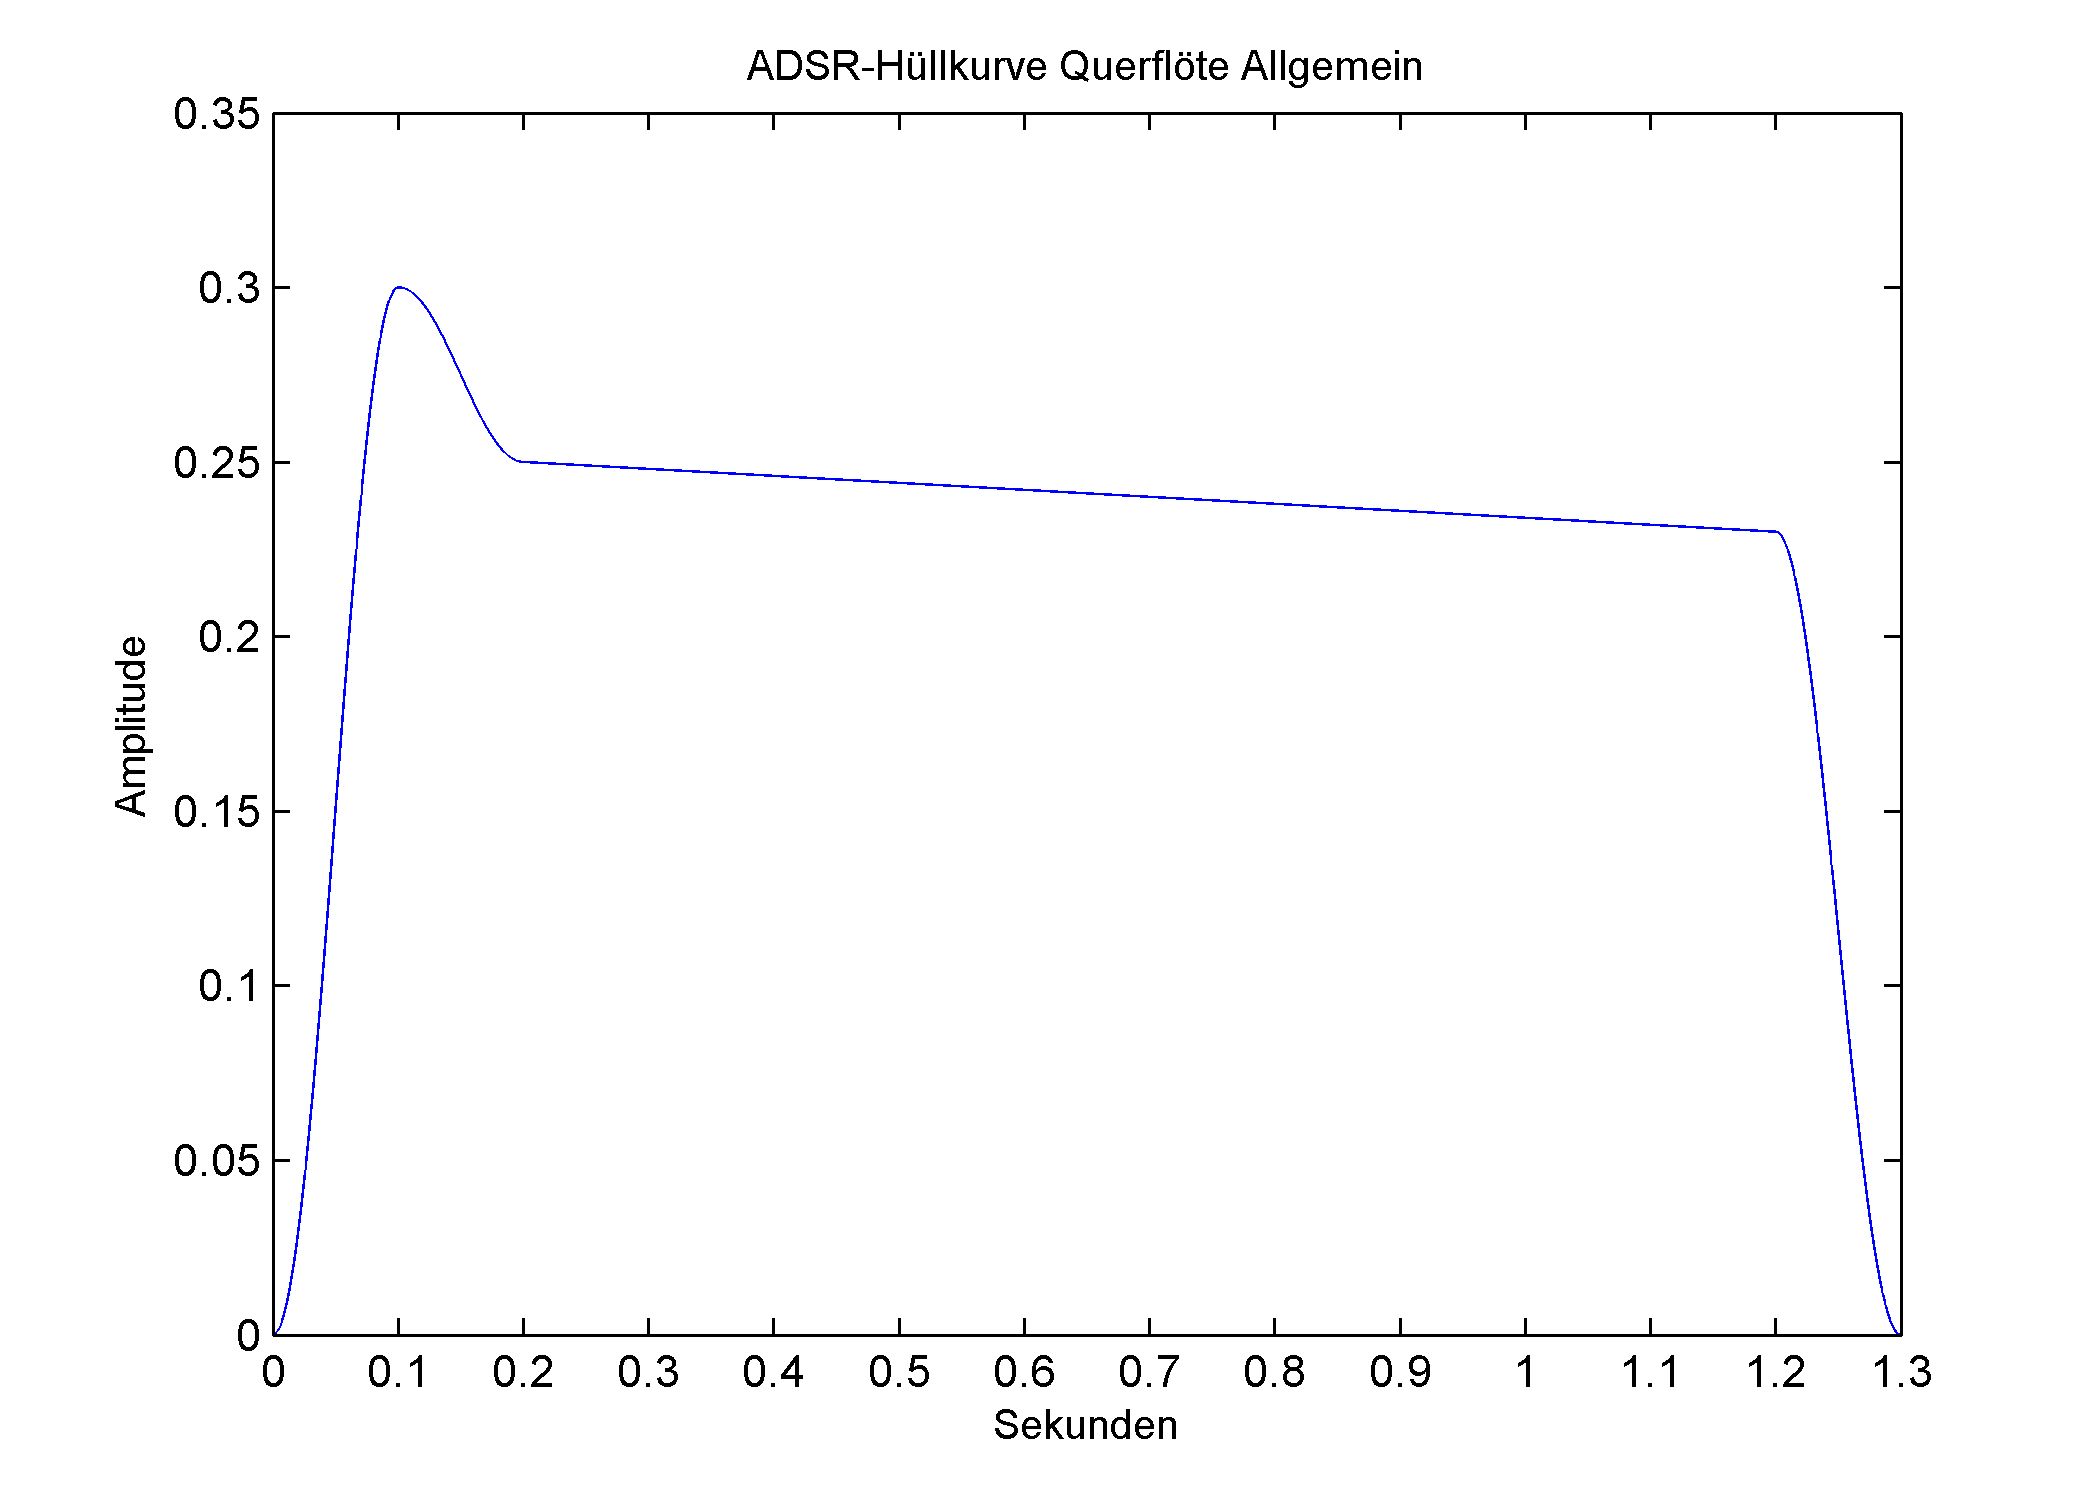
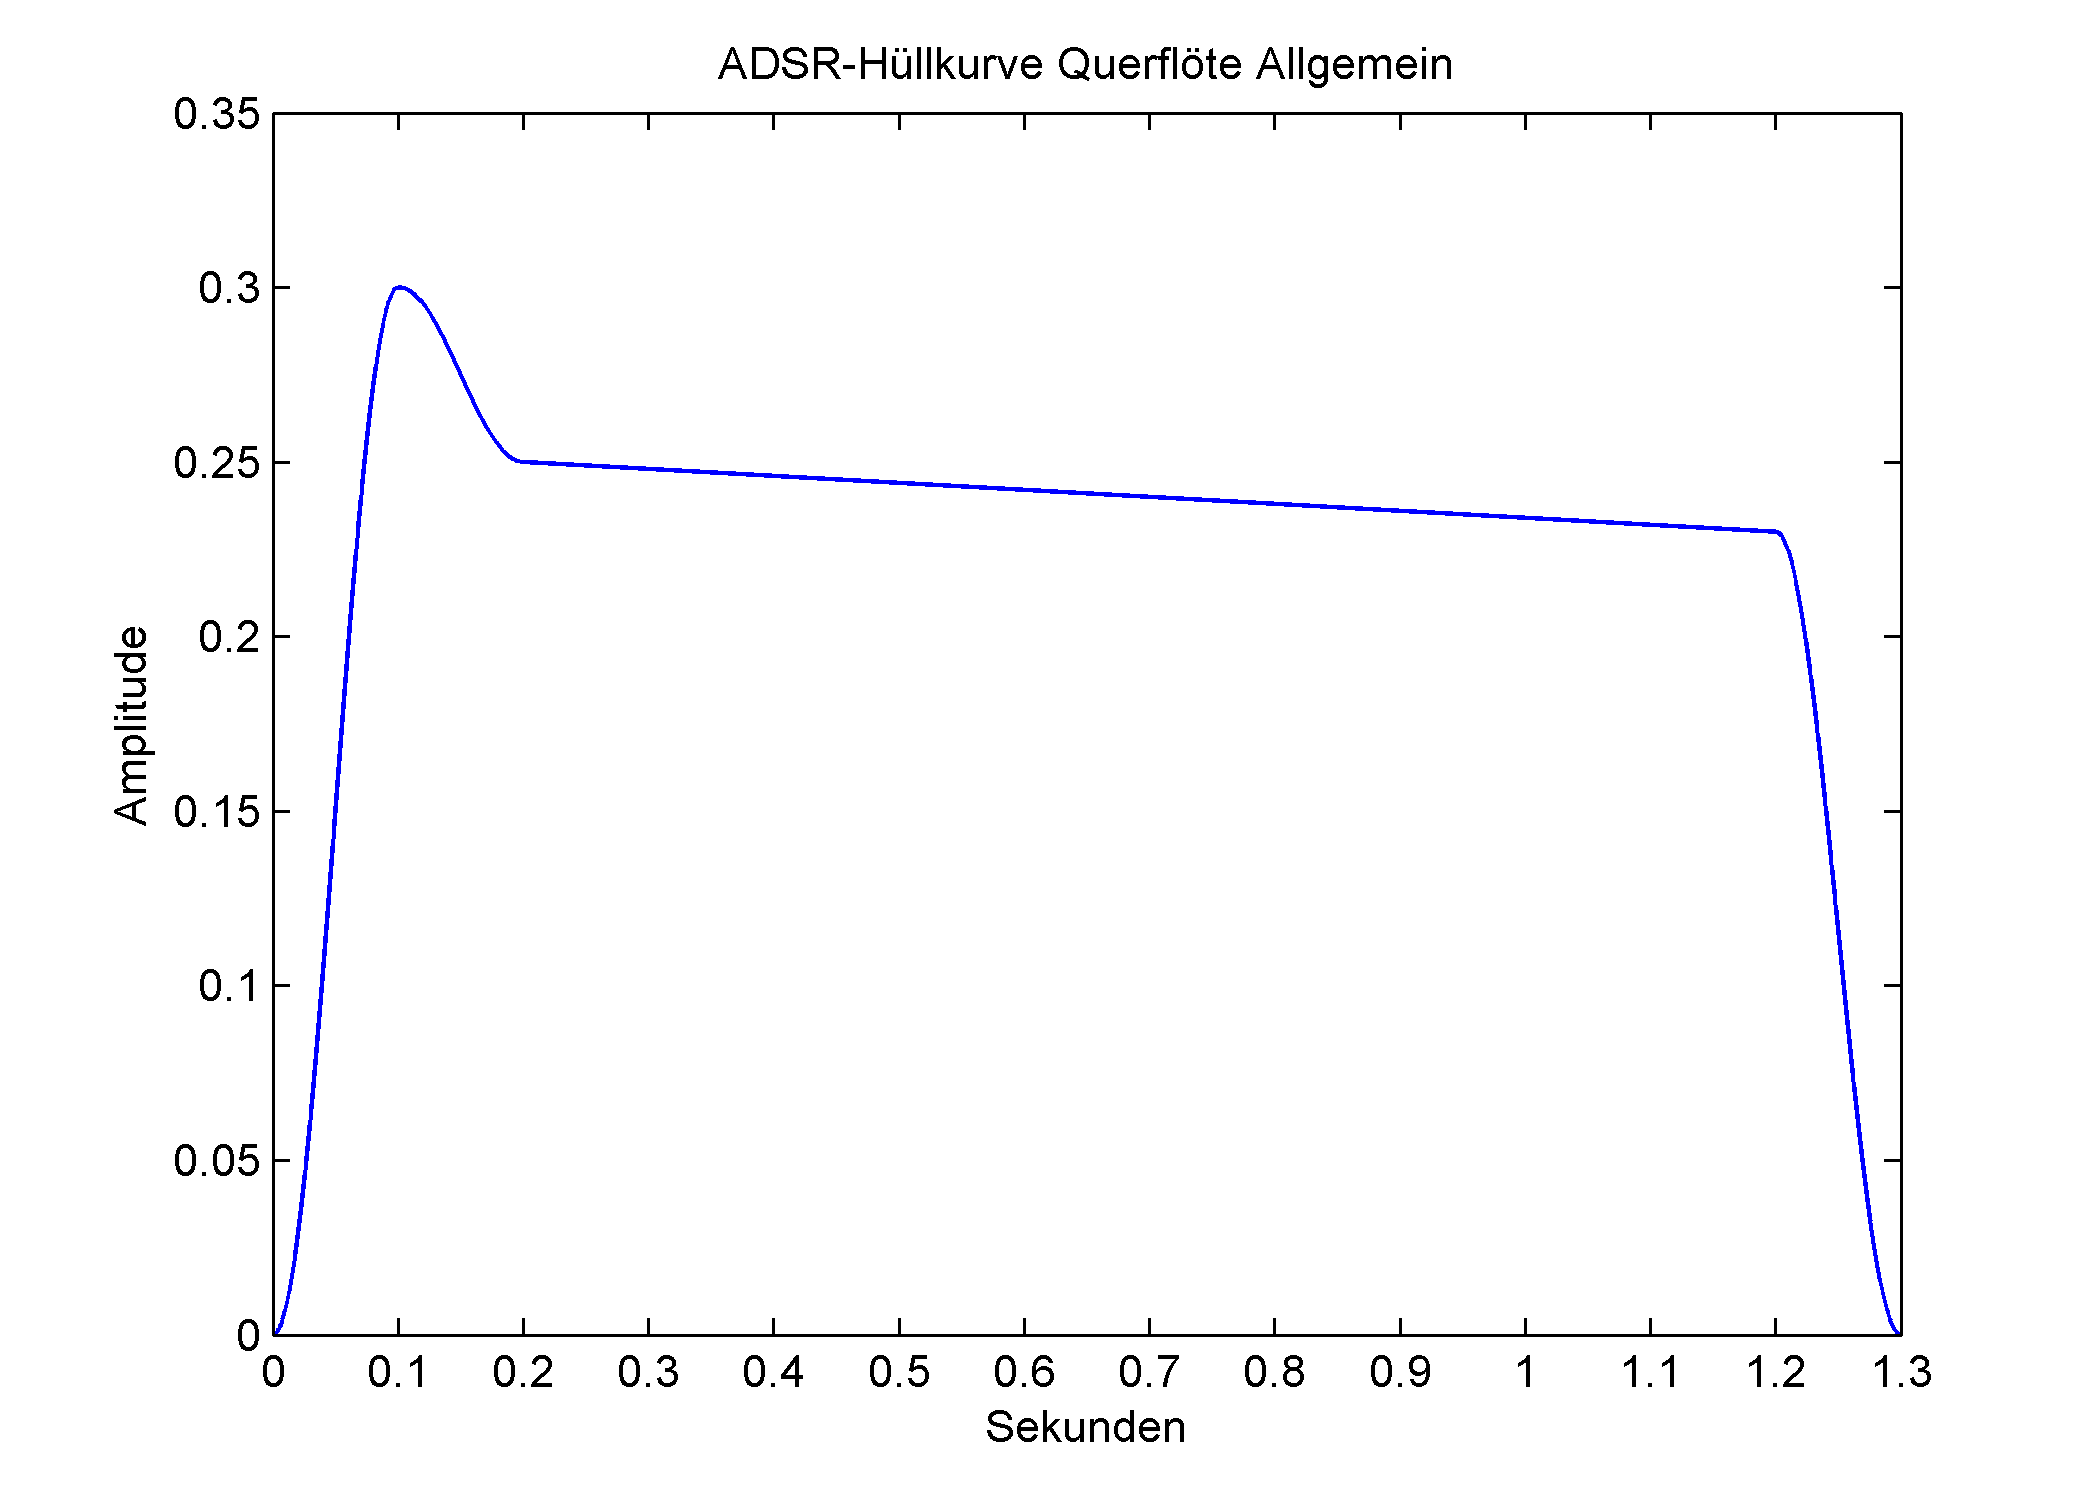
better images more books

diff --git a/Dok/Kapitel/PraktischeAnwendungderFM-Synthese.tex b/Dok/Kapitel/PraktischeAnwendungderFM-Synthese.tex
@@ -7,52 +7,45 @@ Trotzdem gibt es einige Methoden den generierten Klang natürlicher wirken zu la
 \FloatBarrier
 \subsubsection{Theoretisches Vorgehen}
 
-Da bei vielen Instrumenten die Lautstärke während der Laufzeit eines Tones variiert, und ein abruptes Ein oder Ausschalten des Tones nicht realistisch klingt, ist die Nutzung einer ADSR-Hüllkurve ein wichtiger Bestandteil der Nachbildung eines Instrumentes. ADSR steht für die einzelnen Phasen eines Tones: Attack, Decay, Sustain und Release. Diese Phasen sollen hier vereinfacht erklärt werden. Beim Drücken einer Taste wird der Ton angeschlagen und die Lautstärke des Tones steigt schnell bis zu einem maximal Wert an. Diese Phase wird Attack-Phase genannt. Nachdem die maximale Lautstärke erreicht wurde, startet die Decay Phase. In dieser Phase sinkt die Lautstärke schnell auf einen geringeren Wert ab. Danach befindet sich der Ton in der Sustain Phase und die Lautstärke bleibt gleich, solange der Ton gespielt wird. Sobald die Taste losgelassen wird, nimmt die Lautstärke wieder bis zu ihrem minimal Wert ab. In Abbildung \ref{fig:defaultADSR} ist der Verlauf der Lautstärke einer Standard ADSR-Hüllkurve noch einmal grafisch dargestellt.
+Da bei vielen Instrumenten die Lautstärke während der Laufzeit eines Tones variiert, und ein abruptes Ein oder Ausschalten des Tones nicht realistisch klingt, ist die Nutzung einer ADSR-Hüllkurve ein wichtiger Bestandteil der Nachbildung eines Instrumentes. ADSR steht für die einzelnen Phasen eines Tones: Attack, Decay, Sustain und Release. Diese Phasen sollen hier vereinfacht erklärt werden. Beim Drücken einer Taste wird der Ton angeschlagen und die Lautstärke des Tones steigt schnell bis zu einem maximal Wert an. Diese Phase wird Attack-Phase genannt. Nachdem die maximale Lautstärke erreicht wurde, startet die Decay Phase. In dieser Phase sinkt die Lautstärke schnell auf einen geringeren Wert ab. Danach befindet sich der Ton in der Sustain Phase und die Lautstärke bleibt gleich, solange der Ton gespielt wird. Sobald die Taste losgelassen wird, nimmt die Lautstärke wieder bis zu ihrem minimal Wert ab. In Abbildung \ref{fig:adsrDefault} ist der Verlauf der Lautstärke einer Standard ADSR-Hüllkurve noch einmal grafisch dargestellt.
 
 \begin{figure} [ht]
 \centering
-  \includegraphics[width=0.5\textwidth]{standardadsr.png}
+  \includegraphics[width=0.5\textwidth]{adsrDefault.png}
 \caption{Standard ADSR-Hüllkurve}
-\label{fig:defaultADSR}
+\label{fig:adsrDefault}
 Quelle: Eigene Darstellung mit Matlab
 \end{figure}
 
-Da allerdings bei vielen Instrumenten die Lautstärke in den einzelnen Phasen der ADSR-Hüllkurve nicht gleichmäßig steigt oder sinkt, ist es nötig die Kurven beliebig Komplex abbilden zu können. Zum Beispiel steigt bei vielen Instrumenten die Lautstärke in der Attack Phase exponentiell an und fällt in der Decay und Release Phase auch exponentiell ab. Manche Synthesizer bieten zusätzlich auch noch eine Hold Phase vor der Attack Phase, da manche Instrumente einige Zeit benötigen bis sie nach dem Anschlagen des Tones in die Attack Phase eintreten. In Abbildung \ref{fig:blechblasadsr} und \ref{fig:klavieradsr} wurden weitere für Instrumenten typische Hüllkurven dargestellt.
+Da allerdings bei vielen Instrumenten die Lautstärke in den einzelnen Phasen der ADSR-Hüllkurve nicht gleichmäßig steigt oder sinkt, ist es nötig die Kurven beliebig Komplex abbilden zu können. Zum Beispiel steigt bei vielen Instrumenten die Lautstärke in der Attack Phase exponentiell an und fällt in der Decay und Release Phase auch exponentiell ab. Manche Synthesizer bieten zusätzlich auch noch eine Hold Phase vor der Attack Phase, da es Instrumente gibt, die einige Zeit benötigen bis sie nach dem Anschlagen des Tones in die Attack Phase eintreten. In Abbildung \ref{fig:adsrBrass} und \ref{fig:adsrPiano} wurden weitere für Instrumenten typische Hüllkurven dargestellt.
 
 \begin{figure} [ht]
 \centering
-  \includegraphics[width=0.5\textwidth]{blechblasadsr.png}
+  \includegraphics[width=0.5\textwidth]{adsrBrass.png}
 \caption{Typische ADSR-Hüllkurve eines Blechblasinstrumentes}
-\label{fig:blechblasadsr}
-Quelle: Eigene Darstellung mit Matlab
+\label{fig:adsrBrass}
+Quelle: Eigene Darstellung mit Matlab nach \cite{chowningPaper}
 \end{figure}
 
 \begin{figure} [ht]
 \centering
-  \includegraphics[width=0.5\textwidth]{klavieradsr.png}
+  \includegraphics[width=0.5\textwidth]{adsrPiano.png}
 \caption{Typische ADSR-Hüllkurve eines Klaviers}
-\label{fig:klavieradsr}
+\label{fig:adsrPiano}
 Quelle: Eigene Darstellung mit Matlab
 \end{figure}
 
-Auch wenn das Hinzufügen einer ADSR-Hüllkurve den Klang des synthetisierten Tones schon stark verbessert, hört sich der erzeugte Ton leider noch nicht wie ein echtes Instrument an. Eine weitere Möglichkeit den Ton weiter zu verbessern, stellt die Varrierung des Modulationsindex über die Zeit oder die Amplitude dar. Somit kann die Anzahl der Seitenfrequenzen verändert werden. Bei Blasinstrumenten wird der Modulationsindex typischerweise über die Amplitude (also mit der ADSR-Hüllkurve) variiert. \cite[S. 532]{chowningPaper}
+Auch wenn das Hinzufügen einer ADSR-Hüllkurve den Klang des synthetisierten Tones schon stark verbessert, hört sich der erzeugte Ton leider noch nicht wie ein echtes Instrument an. Eine weitere Möglichkeit ihn zu verbessern, stellt die Varrierung des Modulationsindex über die Zeit oder die Amplitude dar. Somit kann die Anzahl der Seitenfrequenzen verändert werden. Bei Blasinstrumenten wird der Modulationsindex typischerweise über die Amplitude (also mit der ADSR-Hüllkurve) variiert. \cite[S. 532]{chowningPaper}
 
-Abgesehen von der einfachen Frequenz Modulation ist es auch möglich mehrere Modulatoren zu verwenden. Diese können in reihe oder parallel geschaltet werden. Außerdem kann auch die sogenannte Feedback Frequenz Modulation genutzt werden, welche das vorran gegangene Signal moduliert. Feedback FM wird vorallem eingesetzt um rauschen zu erzeugen, es kann aber auch ein sehr komplexes Spektrum mit vielen Seitenfrequenzen erzeugen. Komplexe FM-Synthese findet Einsatz wenn die normale FM-Synthese nicht ausreichend komplexe Spektren erzeugt. Dies kann der Fall sein wenn mehrere stetig fallende Seitenfrequenzen erzeugt werden sollen. Wenn bei einfacher FM-Synthese der Modulationsindex erhöht wird um mehr Seitenfrequenzen zu erzeugen, nimmt die Stärke der Grundfrequenz - definiert durch die Bessel Funktion - immer weiter ab und verteilt sich auf die Seitenfrequenzen \ref{bulli:besselModIndexZusammenahang}. Um dies zu vermeiden können die Modulatoren verschachtelt werden - nachzulesen im Kapitel Komplexe Frequenzmodulation (bla)
+Abgesehen von der einfachen Frequenz Modulation ist es auch möglich mehrere Modulatoren zu verwenden. Diese können in reihe oder parallel geschaltet werden. Außerdem kann auch die sogenannte Feedback Frequenz Modulation genutzt werden, welche das vorran gegangene Signal moduliert. \cite[S. 399 f.]{hornerPaper} Feedback FM wird vorallem eingesetzt um rauschen zu erzeugen, es kann aber auch ein sehr komplexes Spektrum mit vielen Seitenfrequenzen erzeugen. Komplexe FM-Synthese findet Einsatz wenn die normale FM-Synthese nicht ausreichend komplexe Spektren erzeugt. Dies kann der Fall sein wenn mehrere stetig fallende Seitenfrequenzen erzeugt werden sollen. Wenn bei einfacher FM-Synthese der Modulationsindex erhöht wird um mehr Seitenfrequenzen zu erzeugen, nimmt die Stärke der Grundfrequenz - definiert durch die Bessel Funktion - immer weiter ab und verteilt sich auf die Seitenfrequenzen \ref{bulli:besselModIndexZusammenahang}. Um dies zu vermeiden können die Modulatoren verschachtelt werden - nachzulesen im Kapitel Komplexe Frequenzmodulation (bla)
 
-Eine reihe an Filtern kann genutzt werden um das von der FM Synthese erzeugte Signal zu verbessern. Diese Filter können mittels additive oder subtraktive Synthese das Signal manipulieren und so ungewollte Frequenzen herausfiltern. Typische Filter sind: Hochpassfilter, Tiefpassfilter, Bandpass und Bandsperre. 
-
-
+Eine reihe an Filtern kann genutzt werden um das von der FM Synthese erzeugte Signal zu verbessern. Diese Filter können mittels additive oder subtraktive Synthese das Signal manipulieren und so ungewollte Frequenzen herausfiltern. Typische Filter sind: Hochpassfilter, Tiefpassfilter, Bandpass und Bandsperre. \cite[S. 100-104]{stotz}
 
 Kein Instrument erzeugt einen hundertprozentigen Klang. Bei Luftverwirblungen und Unebenheiten des Instrumentes wird Rauschen erzeugt. Dieses Rauschen trägt zum typischen Klangbild eines Instrumentes bei und sollte auch nachgebildet werden. Ein Rauschen kann mittels FM Feedback Generator erzeugt werden, dafür muss der Modulationsindex der Feedback FM-Synthese sehr hoch angesetzt werden. Anschließend kann dieses Rauschen mittels Multibandpassfilter um die jeweiligen ausgeprägten Frequenzen gefiltert werden. Würde das Rauschen nicht gefiltert werden, würde man neben dem Ton, das Rauschen als solches wahrnehmen.
-
 
 Raumhall
 
 Um den Klang des Synthetisierten Tones noch realistischer zu machen, kann er mit einem Raumhall veredelt werden.
-
-Einschwingvorgang
-
-Jedes Instrument hat seine eigene charakteristische Einschwingphase, bei vielen Instrumenten ist es eine kurze Hold Phase, die mittels ADSR-Hüllkurve realisiert werden kann.
 
 
 \FloatBarrier

diff --git a/Matlab/Gary/synthFluteComplexFM.m b/Matlab/Gary/synthFluteComplexFM.m
@@ -19,7 +19,9 @@ I4 = 1.5;
 
 
 %% generate signal
-fluteFM = A.*sin(2*pi*fc*t + I.*sin(2*pi*fm*t+I2*sin(2*pi*fm*t+I3*sin(2*pi*fm*t+I4*sin(2*pi*fm*t)))));
+%fluteFM = A.*sin(2*pi*fc*t - I.*cos(2*pi*fm*t - I2*cos(2*pi*fm*t - I3*cos(2*pi*fm*t - I4*cos(2*pi*fm*t)))));
+fluteFM = A.*sin(2*pi*fc*t + I.*sin(2*pi*fm*t + I2*sin(2*pi*fm*t + I3*sin(2*pi*fm*t + I4*sin(2*pi*fm*t)))));
+
 %fluteFM = 0.25*sin(2*pi*fc*t + I.*sin(2*pi*fm*t+I2*sin(2*pi*fm*t+I3*sin(2*pi*fm*t+I4*sin(2*pi*fm*t)))));
 %fluteFM = 0.25*sin(2*pi*fc*t + I.*sin(2*pi*fm*t));
 
@@ -123,3 +125,4 @@ set(gca, 'XLim', [700, 1800]);
 
 %% play sound
 sound(fluteFM,fs);
+%audiowrite('flutesin.wav',fluteFM,44100);

diff --git a/Matlab/Gary/adsrGeneral.m b/Matlab/Gary/adsrGeneral.m
@@ -27,7 +27,7 @@ Release = (cos(2*pi*(1/((releaseTime(2)-releaseTime(1))*2))*(ReleaseTimes-releas
 
 A = [Attack,Decay,Sustain,Release];
 
-plot(A);
+plot(A, 'LineWidth',1);
 set(gca, 'XTick', 0:4410:length*fs);
 set(gca, 'XTickLabel', 0:4410/fs:length);
 set(gca, 'XLim', [0, length*fs]);
